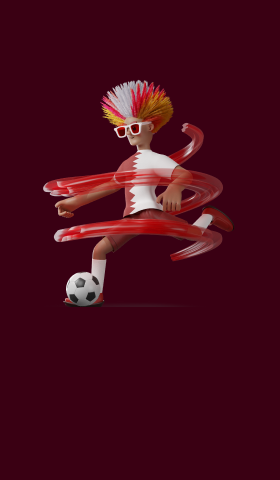
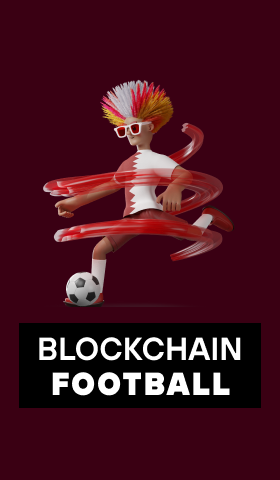
fe: update UI for calculated section

Changed region(s): [[0.0571, 0.6562, 0.9429, 0.875]]

diff --git a/frontend-user/src/pages/LandingPage/CalculatedReward/index.tsx b/frontend-user/src/pages/LandingPage/CalculatedReward/index.tsx
@@ -114,22 +114,37 @@ const CalculatedReward = () => {
   };
 
   return (
-    <div className="mt-[147px] max-w-screen-main w-full mx-auto">
-      <div className="w-full m-auto">
-        <HeadingPrimary
-          backroundTitle="Calculated"
-          title="How the rewards are calculated?"
-        />
-        <p className="text-center text-18/32">
-          All rewards will be airdropped to the winners after Firebird Cup
-          events ends.
-        </p>
+    <div className="mt-[120px] max-w-[1280px] w-full mx-auto">
+      <div className="w-full mx-auto">
+        <div className="flex justify-between items-end">
+          <div className="flex  flex-col ml-[130px]">
+            <HeadingPrimary
+              backroundTitle="Calculated"
+              title="How the rewards are calculated?"
+              textAlign="text-left"
+            />
+            <p className="text-18/32">
+              In addition to the Phoenix Cup, you can join the side events
+              conducted by Firebird & our partners to earn extra prizes.
+            </p>
+          </div>
+          <div className="ml-12 flex justify-center px-6 py-2.5 bg-black text-white">
+            <img src="/images/landing-page/predicted-winner.png" alt="" />
+            <div className="flex flex-col ml-8 font-tthoves">
+              <span className="text-16/20 font-semibold uppercase">
+                Total Rewards
+              </span>
+              <span className="text-48/60 font-bold italic">$1,720</span>
+            </div>
+          </div>
+        </div>
+
         <div
           className={clsx(
-            "mt-9 px-[100px] w-full flex flex-col relative text-white",
+            "mt-9 p-[60px] flex flex-col text-white bg-[#3A0013]",
           )}
         >
-          <div className="flex justify-center z-10">
+          {/* <div className="flex justify-center z-10">
             <ButtonStyled
               title="Leaderboard"
               className="w-[200px] bg-[#EB522F] mr-3"
@@ -138,13 +153,54 @@ const CalculatedReward = () => {
               title="My history"
               className="w-[200px] bg-black text-white"
             />
+          </div> */}
+
+          <div className="flex">
+            <div className="flex flex-col justify-between font-inter w-fit max-w-[460px]">
+              <div>
+                <span className="text-36/48 font-semibold font-tthoves">
+                  Phoenix Cup
+                </span>
+                <p className="mt-2 text-18/32">
+                  All rewards will be airdropped to the winners after Firebird
+                  Cup events ends.
+                </p>
+              </div>
+
+              <div className="flex bg-[#4d192a]">
+                <div className="flex flex-col items-center justify-center py-6 px-8 border-r border-[#714755]">
+                  <span className="text-12/18 font-bold font-tthoves opacity-80">
+                    TOTAL REWARDS
+                  </span>
+                  <span className="text-36/48 font-bold italic">$5,230</span>
+                </div>
+                <div className="w-full">
+                  <div className="flex items-center justify-between py-6 px-8 border-b border-[#714755]">
+                    <div className="text-10/14 opacity-80">
+                      For match score prediction winners
+                    </div>
+                    <div className="text-24/32 font-bold italic">$1,720</div>
+                  </div>
+                  <div className="flex items-center justify-between py-6 px-8">
+                    <div className="text-10/14 opacity-80">
+                      For who win & total goal prediction leaderboard
+                    </div>
+                    <div className="text-24/32 font-bold italic">$3,600</div>
+                  </div>
+                </div>
+              </div>
+            </div>
+
+            <div className="flex-1 ml-10">
+              <img
+                src="./images/landing-page/monsterra-sponser.png"
+                alt=""
+                className="w-full"
+              />
+            </div>
           </div>
-          <div
-            className={clsx(
-              "z-10 mt-10 px-[52px] pt-[57px] pb-[67px] rounded-[20px] bg-black",
-              styles.backgroundImage,
-            )}
-          >
+
+          <div className={clsx("mt-5 px-[45px] pt-[49px] pb-[30px] bg-black")}>
             <div className="flex flex-col lg:flex-row lg:space-x-5 space-y-5 lg:space-y-0">
               <div className="flex-[3]">
                 <p className="text-center text-26/32 font-semibold">
@@ -158,6 +214,55 @@ const CalculatedReward = () => {
                 </p>
                 {renderTableFinalRewards()}
               </div>
+            </div>
+          </div>
+        </div>
+
+        <div className="grid grid-cols-2 gap-5  mt-5 font-inter">
+          <div className="flex bg-black text-white">
+            <div className="w-[55%] pt-[64px] pl-[30px] pb-[30px] pr-[60px]">
+              <div className="text-32/40 font-semibold font-tthoves">
+                Exclusive incentives for GameFi.org’s members.
+              </div>
+              <p className="mt-3 text-18/32 text">
+                Join the Phoenix Cup on Firebird, climb the leaderboard & have a
+                chain to gain additional bonuses.
+              </p>
+              <a href="https://gamefi.org/" target="_blank" rel="noreferrer">
+                <ButtonStyled
+                  className="mt-7 w-[200px] bg-[#EB522F] text-white font-semibold font-tthoves"
+                  title="Join now"
+                />
+              </a>
+            </div>
+            <div className="w-[45%]">
+              <img
+                src="./images/landing-page/gamefi.png"
+                alt=""
+                className="w-full"
+              />
+            </div>
+          </div>
+          <div className="flex bg-black text-white">
+            <div className="w-[55%] pt-[64px] pl-[30px] pb-[30px] pr-[60px]">
+              <div className="text-32/40 font-semibold font-tthoves">
+                Blockchain Football
+              </div>
+              <p className="mt-3 text-18/32 text">
+                Blockchain Football accompanies Firebird in this Phoenix Cup
+                event and provides another opportunity for users to hunt for
+                attractive rewards.
+              </p>
+              <div className="mt-14 text-24/32 italic font-tthoves font-bold">
+                COMING SOON
+              </div>
+            </div>
+            <div className="w-[45%]">
+              <img
+                src="./images/landing-page/block-chain-football.png"
+                alt=""
+                className="w-full"
+              />
             </div>
           </div>
         </div>

diff --git a/frontend-user/src/pages/LandingPage/Banner/index.tsx b/frontend-user/src/pages/LandingPage/Banner/index.tsx
@@ -23,7 +23,7 @@ const Banner = () => {
   return (
     <div
       className={clsx(
-        "mt-20 mb-10 px-[100px] text-white max-w-screen-main w-full mx-auto",
+        "mt-20 mb-[-230px] px-[100px] text-white max-w-screen-main w-full mx-auto",
       )}
     >
       <div
@@ -45,7 +45,7 @@ const Banner = () => {
               key={item.title}
               className=" flex items-center mb-3 space-x-3 bg-black rounded-xl py-3 px-7 w-[294px]"
             >
-              <img src={item.icon} alt="" className="W-10 h-10" />
+              <img src={item.icon} alt="" className="w-10 h-10" />
               <div className="flex flex-col">
                 <span className="text-14/24 font-normal">{item.title}</span>
                 <span className="text-22/32 font-semibold">

diff --git a/frontend-user/src/pages/LandingPage/WorldCupSchedule/Schedule/index.tsx b/frontend-user/src/pages/LandingPage/WorldCupSchedule/Schedule/index.tsx
@@ -1,5 +1,4 @@
 import clsx from "clsx";
-import React from "react";
 import HeadingPrimary from "../../components/HeadingPrimary";
 import styles from "./schedule.module.scss";
 
@@ -14,7 +13,7 @@ const schedule = [
 
 const Schedule = () => {
   return (
-    <div className={clsx("pt-[140px] mb-20 text-white", styles.scheduleBg)}>
+    <div className={clsx("pt-[140px] text-white", styles.scheduleBg)}>
       <HeadingPrimary
         backroundTitle="SCHEDULE"
         title="2022 Qatar World Cup Schedule"

diff --git a/frontend-user/tailwind.config.js b/frontend-user/tailwind.config.js
@@ -45,6 +45,8 @@ module.exports = {
       "26/32": ["26px", { lineHeight: "32px" }],
       "28/36": ["28px", { lineHeight: "36px" }],
       "32/40": ["32px", { lineHeight: "40px" }],
+      "36/48": ["36px", { lineHeight: "48px" }],
+      "48/60": ["48px", { lineHeight: "60px" }],
       "40/52": ["40px", { lineHeight: "52px" }],
       "56/60": ["56px", { lineHeight: "60px" }],
       "80/80": ["80px", { lineHeight: "80px" }],

diff --git a/frontend-user/src/constants/index.ts b/frontend-user/src/constants/index.ts
@@ -22,8 +22,8 @@ export const NUMBER_PATTERN = /^\d{1,10}?\.?(\d{1,18})?$/;
 export const quickGuide = [
   "Select a match",
   "Answer questions & submit your predictions",
-  "The match results will be updated.",
-  "Check the leadeborad menu to see your rank.",
+  "The match results will be updated",
+  "Check the Leaderboard menu to see your rank",
 ];
 
 export enum QUESTION_STATUS {

diff --git a/frontend-user/src/pages/LandingPage/PredictionRule/index.tsx b/frontend-user/src/pages/LandingPage/PredictionRule/index.tsx
@@ -32,7 +32,7 @@ const predictionRules = [
 
 const PredictionRule = () => {
   return (
-    <div>
+    <div id="prediction-rule" className="mt-[120px]">
       <HeadingPrimary title="Prediction Rule" />
       <div
         className={clsx("bg-white text-white mt-20 flex", styles.predictRuleBg)}

diff --git a/frontend-user/src/pages/LandingPage/WorldCupSchedule/index.tsx b/frontend-user/src/pages/LandingPage/WorldCupSchedule/index.tsx
@@ -96,7 +96,7 @@ const WorldCupSchedule = () => {
   };
 
   return (
-    <div className="flex flex-col py-20 mt-10">
+    <div className="flex flex-col pt-20 mt-10">
       <Schedule />
       <HeadingPrimary title="Match List" />
       <div className="max-w-screen-main mx-auto w-full">

diff --git a/frontend-user/src/pages/LandingPage/index.tsx b/frontend-user/src/pages/LandingPage/index.tsx
@@ -11,8 +11,8 @@ const LangdingPage = () => {
 
       <div className="flex flex-col w-full">
         <WorldCupSchedule />
-        <PredictionRule />
         <CalculatedReward />
+        <PredictionRule />
         <Banner />
       </div>
     </LandingLayout>
